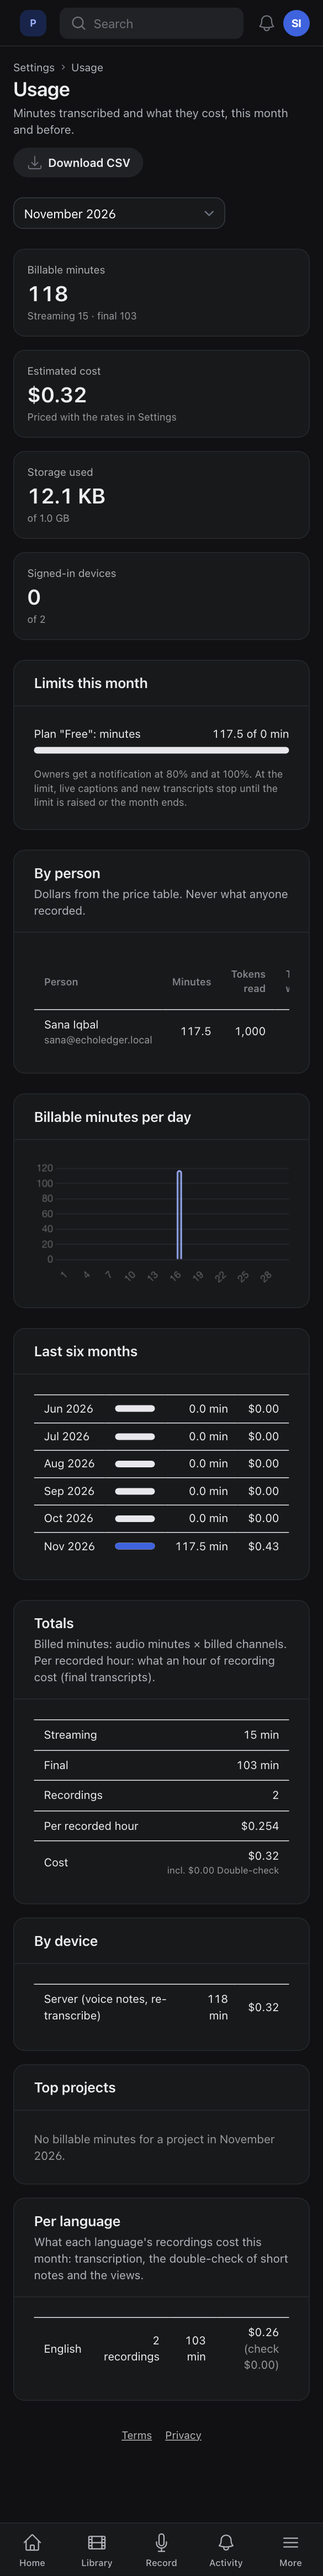
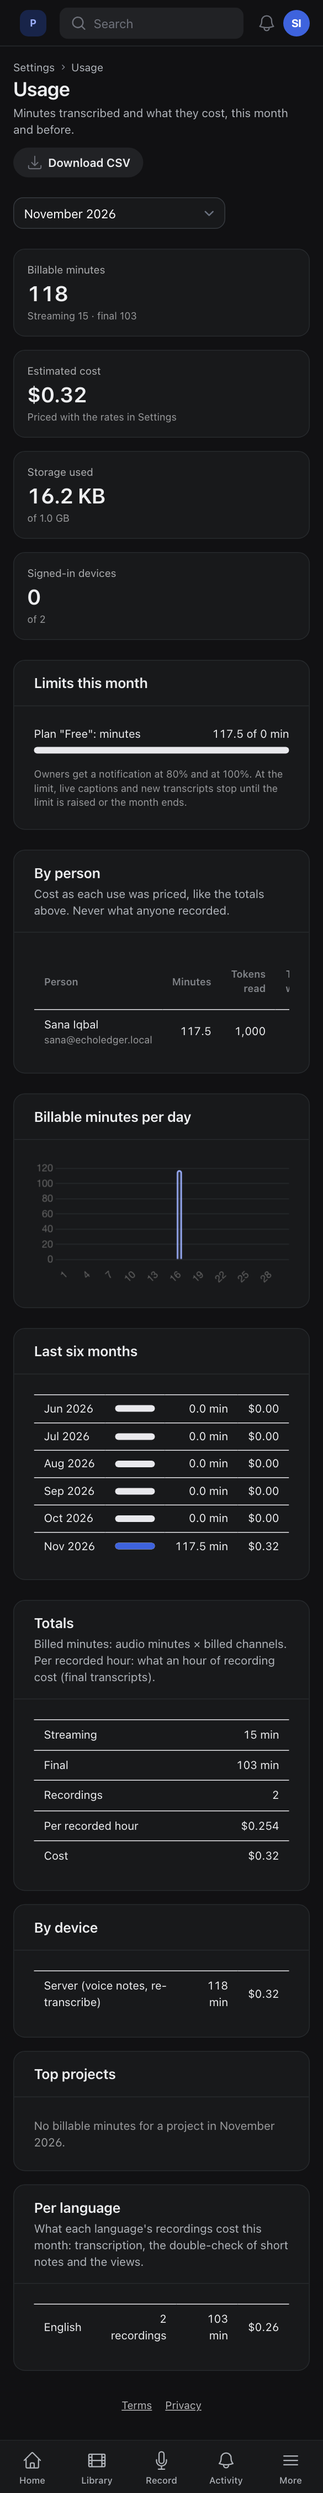
Review of e598af38: only missing or damaged audio fails for good, the shared-hosting update order, one cost source on the whole Usage page
- A final transcript fails as recording_missing only when its stored file is not there (an existence check that
  throws when the bucket does not answer) or was read in full and does not decrypt (RecordingUndecryptable from the
  cipher). A dropped request, a bucket's 503, a cut-short download or a full temp disk throw again, so the queue
  retries and the last failure is an interrupted run, as before.
- DEPLOY.md, Updating: after migrate, wait a minute for the cron's old workers, then run
  echoledger:plain-failure-notifications.
- The console's Usage page takes By person and Last six months from the ledger's stored costs, like the tile and
  Totals; the admin panel keeps the price table. Usage screenshots retaken.
- NotifyWhenReadyTest: Livewire's test client answers another person's recording page with a 404 rather than
  throwing; the test now checks that 404, that nothing of the recording shows, and that nothing was asked.

diff --git a/web/app/Jobs/TranscribeFinalJob.php b/web/app/Jobs/TranscribeFinalJob.php
@@ -10,6 +10,7 @@ use App\Enums\SttProviderKey;
 use App\Enums\TranscriptErrorCode;
 use App\Enums\TranscriptKind;
 use App\Enums\TranscriptStatus;
+use App\Exceptions\RecordingUndecryptable;
 use App\Models\Transcript;
 use App\Services\ActivityFeed;
 use App\Services\ChunkedUploadService;
@@ -37,7 +38,6 @@ use Illuminate\Http\Client\ConnectionException;
 use Illuminate\Http\Client\RequestException;
 use Illuminate\Support\Facades\Log;
 use League\Flysystem\FilesystemException;
-use RuntimeException;
 use Throwable;
 
 /**
@@ -133,14 +133,21 @@ final class TranscribeFinalJob implements ShouldQueue
             $channel2 = $recordings->get(RecordingRole::Channel2->value);
             $caps = $driver->capabilities();
             $useChannels = $channel1?->isReady() && $channel2?->isReady() && ($caps->needsChannelArtifacts || $caps->usesChannelArtifacts);
-            // Since v1.8.1: a stored file that is gone or cannot be read or decrypted is missing audio, not an interrupted
-            // run, so "Transcribe again" does not loop on it. Which file and why go to the log only.
+            // Since v1.8.1: a stored file that is not there, or that was read in full and does not decrypt, is missing
+            // audio, not an interrupted run, so "Transcribe again" does not loop on it. Anything passing (a dropped
+            // request, a bucket's 503, a download cut short, a full temp disk) throws: the queue tries again, and the
+            // last failure is an interrupted run (failed()). Which file and why go to the log only.
             try {
+                foreach (array_filter([$primary, $useChannels ? $channel1 : null, $useChannels ? $channel2 : null]) as $stored) {
+                    if (! $uploads->storedFileExists($stored)) {
+                        throw new RecordingUndecryptable("Recording {$stored->id} is not stored.");
+                    }
+                }
                 $primaryPath = $temps[] = $uploads->decryptToTemp($primary);
                 $channel1Path = $useChannels ? ($temps[] = $uploads->decryptToTemp($channel1)) : null;
                 $channel2Path = $useChannels ? ($temps[] = $uploads->decryptToTemp($channel2)) : null;
-            } catch (FilesystemException|RuntimeException $e) {
-                Log::warning('Final transcript: the stored audio could not be read', ['transcript' => $transcript->id, 'error' => mb_substr($e->getMessage(), 0, 300)]);
+            } catch (RecordingUndecryptable $e) {
+                Log::warning('Final transcript: the stored audio is missing or damaged', ['transcript' => $transcript->id, 'error' => mb_substr($e->getMessage(), 0, 300)]);
                 $store->failWith($transcript, TranscriptErrorCode::RecordingMissing);
 
                 return;
@@ -299,14 +306,11 @@ final class TranscribeFinalJob implements ShouldQueue
     {
         $transcript = Transcript::query()->find($this->transcriptId);
         if ($transcript !== null && ! $transcript->status->isTerminal()) {
-            // A storage error names the file, and the audio is not there to transcribe (since v1.8.1: recording_missing,
-            // not interrupted, so "Transcribe again" does not loop); the log keeps the rest.
-            if ($exception instanceof FilesystemException) {
-                app(TranscriptStore::class)->failWith($transcript, TranscriptErrorCode::RecordingMissing);
-
-                return;
-            }
-            $error = mb_substr($exception?->getMessage() ?? 'Transcription failed.', 0, 2000);
+            // A storage error names the file: the device gets the documented text, the log the rest. It is a passing
+            // fault after every try (missing or damaged audio fails in handle(), as recording_missing).
+            $error = $exception instanceof FilesystemException
+                ? TranscriptErrorCode::Interrupted->message()
+                : mb_substr($exception?->getMessage() ?? 'Transcription failed.', 0, 2000);
             // Since v1.5 a crashed run of an Urdu or Auto recording is an interrupted one: it waits and its engine is tried
             // again (EngineWait), and once the wait is over the next engine takes it as a backup (EngineFallbackJob).
             if ($transcript->kind === TranscriptKind::Final && EngineWait::forUrdu($transcript)) {

diff --git a/web/tests/Feature/Storage/S3RecordingsTest.php b/web/tests/Feature/Storage/S3RecordingsTest.php
@@ -1244,9 +1244,9 @@ it('gives the device the documented text when a final transcript fails on the bu
 
     $answer = $this->getJson("/api/transcripts/{$transcript->id}")->assertOk()
         ->assertJsonPath('status', 'failed')
-        // Since v1.8.1 the audio is missing, not the run interrupted: "Transcribe again" would only fail the same way.
-        ->assertJsonPath('error', TranscriptErrorCode::plainWords(TranscriptErrorCode::RecordingMissing))
-        ->assertJsonPath('error_code', 'recording_missing');
+        // A dropped request is a passing fault: the run is interrupted, never "the audio is gone".
+        ->assertJsonPath('error', TranscriptErrorCode::plainWords(TranscriptErrorCode::Interrupted))
+        ->assertJsonPath('error_code', 'interrupted');
     expect($answer->getContent())->not->toContain(FakeS3Server::HOST)->not->toContain(FakeS3Server::BUCKET)->not->toContain((string) $recording->stored_path);
 
     // What is no storage trouble keeps its own text, as before.
@@ -1255,7 +1255,37 @@ it('gives the device the documented text when a final transcript fails on the bu
     expect($other->refresh()->error)->toBe('Something else');
 });
 
-it('fails a final transcript whose stored audio cannot be read as missing audio, without sending anything to an engine', function () {
+it('lets a final transcript whose bucket drops the request throw, so the queue tries again, and never calls it missing audio', function () {
+    $session = $this->makeReadySession($this->device, Fixtures::audio(3000), ['status' => SessionStatus::Processing]);
+    $transcript = $session->transcripts()->create(['kind' => TranscriptKind::Final, 'provider' => 'assemblyai', 'status' => TranscriptStatus::Pending, 'language' => 'en']);
+    app(CredentialVault::class)->put('assemblyai', 'api_key', 'aai_test_key_1234567890');
+    Http::fake(['api.assemblyai.com/*' => Http::response([], 500)]);
+    // The object is there; the download is cut short.
+    $this->bucket->cutNextDownloads(100, 3);
+
+    expect(fn () => (new TranscribeFinalJob($transcript->id))->handle(app(SttManager::class), app(ChunkedUploadService::class), app(TranscriptStore::class)))
+        ->toThrow(RuntimeException::class);
+    expect($transcript->refresh()->status)->toBe(TranscriptStatus::Pending)->and($transcript->error_code)->toBeNull();
+    Http::assertNotSent(fn ($r) => str_contains($r->url(), 'assemblyai.com'));
+});
+
+it('fails a final transcript whose stored audio is damaged as missing audio, without sending anything to an engine', function () {
+    $session = $this->makeReadySession($this->device, Fixtures::audio(3000), ['status' => SessionStatus::Processing]);
+    $transcript = $session->transcripts()->create(['kind' => TranscriptKind::Final, 'provider' => 'assemblyai', 'status' => TranscriptStatus::Pending, 'language' => 'en']);
+    app(CredentialVault::class)->put('assemblyai', 'api_key', 'aai_test_key_1234567890');
+    // The stored object is there in full, but it does not decrypt.
+    foreach (array_keys($this->bucket->objects) as $key) {
+        $this->bucket->objects[$key]['body'] = RecordingCipher::MAGIC.str_repeat("\0", 200);
+    }
+    Http::fake(['api.assemblyai.com/*' => Http::response([], 500)]);
+
+    dispatch_sync(new TranscribeFinalJob($transcript->id));
+
+    expect($transcript->refresh()->status)->toBe(TranscriptStatus::Failed)->and($transcript->error_code)->toBe('recording_missing');
+    Http::assertNotSent(fn ($r) => str_contains($r->url(), 'assemblyai.com'));
+});
+
+it('fails a final transcript whose stored audio is gone as missing audio, without sending anything to an engine', function () {
     $session = $this->makeReadySession($this->device, Fixtures::audio(3000), ['status' => SessionStatus::Processing]);
     $transcript = $session->transcripts()->create(['kind' => TranscriptKind::Final, 'provider' => 'assemblyai', 'status' => TranscriptStatus::Pending, 'language' => 'en']);
     app(CredentialVault::class)->put('assemblyai', 'api_key', 'aai_test_key_1234567890');

diff --git a/web/app/Services/RecordingCipher.php b/web/app/Services/RecordingCipher.php
@@ -4,6 +4,7 @@ declare(strict_types=1);
 
 namespace App\Services;
 
+use App\Exceptions\RecordingUndecryptable;
 use RuntimeException;
 use SplTempFileObject;
 
@@ -120,12 +121,12 @@ final class RecordingCipher
         $final = false;
         try {
             if (fread($in, 4) !== self::MAGIC) {
-                throw new RuntimeException('Not an EchoLedger encrypted recording.');
+                throw new RecordingUndecryptable('Not an EchoLedger encrypted recording.');
             }
             $header = (string) fread($in, SODIUM_CRYPTO_SECRETSTREAM_XCHACHA20POLY1305_HEADERBYTES);
             // init_pull throws SodiumException (not a RuntimeException) for a short header.
             if (strlen($header) !== SODIUM_CRYPTO_SECRETSTREAM_XCHACHA20POLY1305_HEADERBYTES) {
-                throw new RuntimeException('Recording is truncated or has trailing data.');
+                throw new RecordingUndecryptable('Recording is truncated or has trailing data.');
             }
             $state = sodium_crypto_secretstream_xchacha20poly1305_init_pull($header, $this->key);
             while (! feof($in)) {
@@ -135,7 +136,7 @@ final class RecordingCipher
                 }
                 $result = sodium_crypto_secretstream_xchacha20poly1305_pull($state, $cipher, $aad);
                 if ($result === false) {
-                    throw new RuntimeException('Recording is corrupt or was tampered with.');
+                    throw new RecordingUndecryptable('Recording is corrupt or was tampered with.');
                 }
                 [$plain, $tag] = $result;
                 $sink($plain);
@@ -147,7 +148,7 @@ final class RecordingCipher
             }
             $trailing = ! feof($in) && fread($in, 1) !== '';
             if (! $final || $trailing) {
-                throw new RuntimeException('Recording is truncated or has trailing data.');
+                throw new RecordingUndecryptable('Recording is truncated or has trailing data.');
             }
         } finally {
             fclose($in);

diff --git a/web/tests/Feature/Workspaces/UsageWithoutProvidersTest.php b/web/tests/Feature/Workspaces/UsageWithoutProvidersTest.php
@@ -7,6 +7,7 @@ use App\Filament\Pages\Usage;
 use App\Models\UsageLedgerEntry;
 use App\Models\User;
 use App\Services\SettingsRepository;
+use App\Services\Usage\UsageBreakdown;
 use App\Services\Usage\UsageReport;
 use Filament\Facades\Filament;
 use Illuminate\Support\Carbon;
@@ -110,6 +111,27 @@ it('shows one cost on the Usage page, and names the Double-check part only when 
     providerlessUsageRow($owner, ['provider' => 'groq', 'report_id' => 'check/'.Str::ulid().'/2', 'model' => 'double-check', 'duration_ms' => 30_000, 'billed_ms' => 30_000, 'cost_usd' => 0.01]);
     [$tile, $totals, $html] = $costs();
     expect($tile)->toBe('$0.87')->and($totals)->toBe($tile)->and($html)->toContain('incl. $0.01 Double-check');
+});
+
+it('takes By person and Last six months from the same stored costs as the tile, whatever the admin\'s price table says', function () {
+    $owner = Fx::user();
+    usageMonth($owner);
+    // The admin panel's price table, far from what each use was priced at.
+    app(UsageBreakdown::class)->savePrices(['groq' => ['final_hour' => 60.0, 'live_hour' => 60.0]]);
+    $this->actingAs($owner, 'web');
+
+    $html = (string) $this->get('/app/usage')->assertOk()->getContent();
+    preg_match('/Estimated cost<\/div>\s*<div[^>]*>\s*(\$[\d.,]+)/', $html, $tile);
+    $people = Str::between($html, 'By person', 'Last six months');
+    $trend = Str::after($html, 'Last six months');
+    preg_match('/Oct 2026.*?(\$[\d.,]+)/s', $trend, $month);
+
+    expect($tile[1] ?? null)->toBe('$0.36')
+        ->and($people)->toContain('$0.36')->not->toContain('$60')->not->toContain('$12')
+        ->and($month[1] ?? null)->toBe('$0.36');
+    // The admin panel keeps its price table.
+    [$from, $to] = [Carbon::parse('2026-10-01'), Carbon::parse('2026-11-01')];
+    expect(app(UsageBreakdown::class)->report($from, $to, $owner->current_workspace_id)['totals']['cost_usd'])->toBeGreaterThan(100.0);
 });
 
 it('downloads the owner\'s month one line per use, never per provider', function () {

diff --git a/web/app/Services/Usage/UsageBreakdown.php b/web/app/Services/Usage/UsageBreakdown.php
@@ -50,7 +50,23 @@ final class UsageBreakdown
         'watch_translate' => 'Watch translate',
     ];
 
+    /** Whether each use costs what the ledger stored with it, instead of the price table (stored()). */
+    private bool $stored = false;
+
     public function __construct(private readonly SettingsRepository $settings, private readonly PlanLimits $limits) {}
+
+    /**
+     * The same numbers with each use's cost as the ledger stored it, every use counted (since v1.8.1): the console's
+     * Usage page, whose tile and Totals (UsageReport) add up the stored costs, so every cost on that page agrees. The
+     * admin panel keeps the price table.
+     */
+    public function stored(): self
+    {
+        $copy = clone $this;
+        $copy->stored = true;
+
+        return $copy;
+    }
 
     /**
      * The price table: the list prices with the super admin's changes over them.
@@ -257,7 +273,9 @@ final class UsageBreakdown
         $in = (int) $row->input_tokens;
         $out = (int) $row->output_tokens;
         $table = $prices[$provider] ?? null;
-        if (! (bool) $row->billable) {
+        if ($this->stored) {
+            $cost = (float) $row->cost_usd;
+        } elseif (! (bool) $row->billable) {
             $cost = 0.0;
         } elseif ($table === null) {
             // A provider the table does not list (self-hosted, Azure): what the ledger stored.

diff --git a/web/tests/Feature/Admin/NotifyWhenReadyTest.php b/web/tests/Feature/Admin/NotifyWhenReadyTest.php
@@ -111,7 +111,12 @@ it('never lets another person ask about someone\'s recording', function () {
 
     // The recording page is not theirs to open: 404 before any action can run.
     $this->get(ViewCaptureSession::getUrl(['record' => $theirs->id]))->assertNotFound();
-    expect(fn () => $this->panelComponent(ViewCaptureSession::class, ['record' => $theirs->id])->call('notifyWhenReady'))->toThrow(Exception::class);
+    // Livewire's test client answers a page whose record is not found with a 404, as the browser gets it, instead of
+    // throwing; an action sent to it then has no page to run on.
+    $page = $this->panelComponent(ViewCaptureSession::class, ['record' => $theirs->id])->assertNotFound();
+    expect($page->html())->not->toContain('Laptop call')->not->toContain('Notify me when ready');
+    $page->call('notifyWhenReady');
+    expect(app(ReadyNotices::class)->asked($theirs->user, $theirs))->toBeFalse();
     expect(Cache::has('ready-notice:'.$theirs->id))->toBeFalse();
     // Nor through the service: only the owner can ask.
     expect(app(ReadyNotices::class)->ask($this->admin, $theirs))->toBeFalse();

diff --git a/web/app/Services/ChunkedUploadService.php b/web/app/Services/ChunkedUploadService.php
@@ -365,6 +365,12 @@ final class ChunkedUploadService
     }
 
     /** Decrypts a ready recording to a private temp file. The caller MUST unlink it in `finally`. */
+    /** Whether a ready recording's file is stored (since v1.8.1); a storage fault throws instead of answering no. */
+    public function storedFileExists(Recording $recording): bool
+    {
+        return $recording->stored_path !== null && $recording->stored_path !== '' && $this->files()->exists((string) $recording->stored_path);
+    }
+
     public function decryptToTemp(Recording $recording): string
     {
         if (! $recording->isReady()) {

diff --git a/web/app/Filament/Pages/Usage.php b/web/app/Filament/Pages/Usage.php
@@ -130,7 +130,8 @@ class Usage extends Page
         $server = $user instanceof User && $user->is_super_admin ? app(UsageSummary::class)->toArray() : null;
         $own = $this->ownOnly();
         [$from, $to] = $this->range();
-        $breakdown = app(UsageBreakdown::class);
+        // The costs as the ledger stored them, like the tile and Totals (UsageReport): one cost source on the page.
+        $breakdown = app(UsageBreakdown::class)->stored();
 
         return [
             'report' => app(UsageReport::class)->forMonth($workspaceId, $month, $own),

diff --git a/web/app/Services/Storage/RecordingFiles.php b/web/app/Services/Storage/RecordingFiles.php
@@ -87,6 +87,15 @@ final class RecordingFiles
         }
     }
 
+    /**
+     * Whether the file is stored. A bucket that does not answer throws (League's UnableToCheckExistence) instead of
+     * saying no, so only a file that really is not there reads as gone.
+     */
+    public function exists(string $relative): bool
+    {
+        return $this->disk()->getDriver()->fileExists($relative);
+    }
+
     /** @return int plaintext bytes written */
     public function decryptToFile(string $relative, string $dstPath, string $aad): int
     {

diff --git a/web/resources/views/filament/pages/usage.blade.php b/web/resources/views/filament/pages/usage.blade.php
@@ -69,7 +69,7 @@
     </x-filament::section>
 
     @if ($people !== null)
-        @include('filament.pages.usage-people', ['people' => $people])
+        @include('filament.pages.usage-people', ['people' => $people, 'description' => 'Cost as each use was priced, like the totals above. Never what anyone recorded.'])
     @endif
 
     @livewire(\App\Filament\Widgets\Usage\DailyUsageChart::class, ['month' => $report['month']], key('usage-chart-'.$report['month']))

diff --git a/web/app/Exceptions/RecordingUndecryptable.php b/web/app/Exceptions/RecordingUndecryptable.php
@@ -1,0 +1,13 @@
+<?php
+
+declare(strict_types=1);
+
+namespace App\Exceptions;
+
+use RuntimeException;
+
+/**
+ * A stored recording read in full that does not decrypt: not an EchoLedger file, cut short or with bytes after its end,
+ * or changed (since v1.8.1). Reading it again gives the same answer, unlike a dropped request or a full disk.
+ */
+final class RecordingUndecryptable extends RuntimeException {}

diff --git a/web/DEPLOY.md b/web/DEPLOY.md
@@ -180,6 +180,12 @@ Check: `curl -s https://<server>/.well-known/assetlinks.json` returns JSON namin
 Upload the new code, then: `php artisan migrate --force && php artisan optimize:clear && php artisan optimize`. The first
 update to v1.5 with the connector also needs its keys, once: see "Claude and ChatGPT connector" above.
 
+**"Transcription failed" notifications in plain words (after the v1.8.1 update).** The migration rewrites the ones
+already sent. A queue worker the cron started before the upload still runs the old code for up to 55 seconds
+(`--max-time=55`) and can send one more in the old words. So after `migrate`, wait a minute, then run
+`php artisan echoledger:plain-failure-notifications`. It leaves alone the ones already in plain words, so running it
+again is safe (`--dry-run` only counts them).
+
 **Automatic titles for older recordings (once, after the v1.6 update).** Recordings named "Voice note", "WhatsApp call",
 after their file ("PTT-20261108-WA0012") or not at all get the first words of their transcript as an automatic title; a
 title a person set is never touched, and a call with a known person shows "Call with …" again. No migration, no AI cost.
